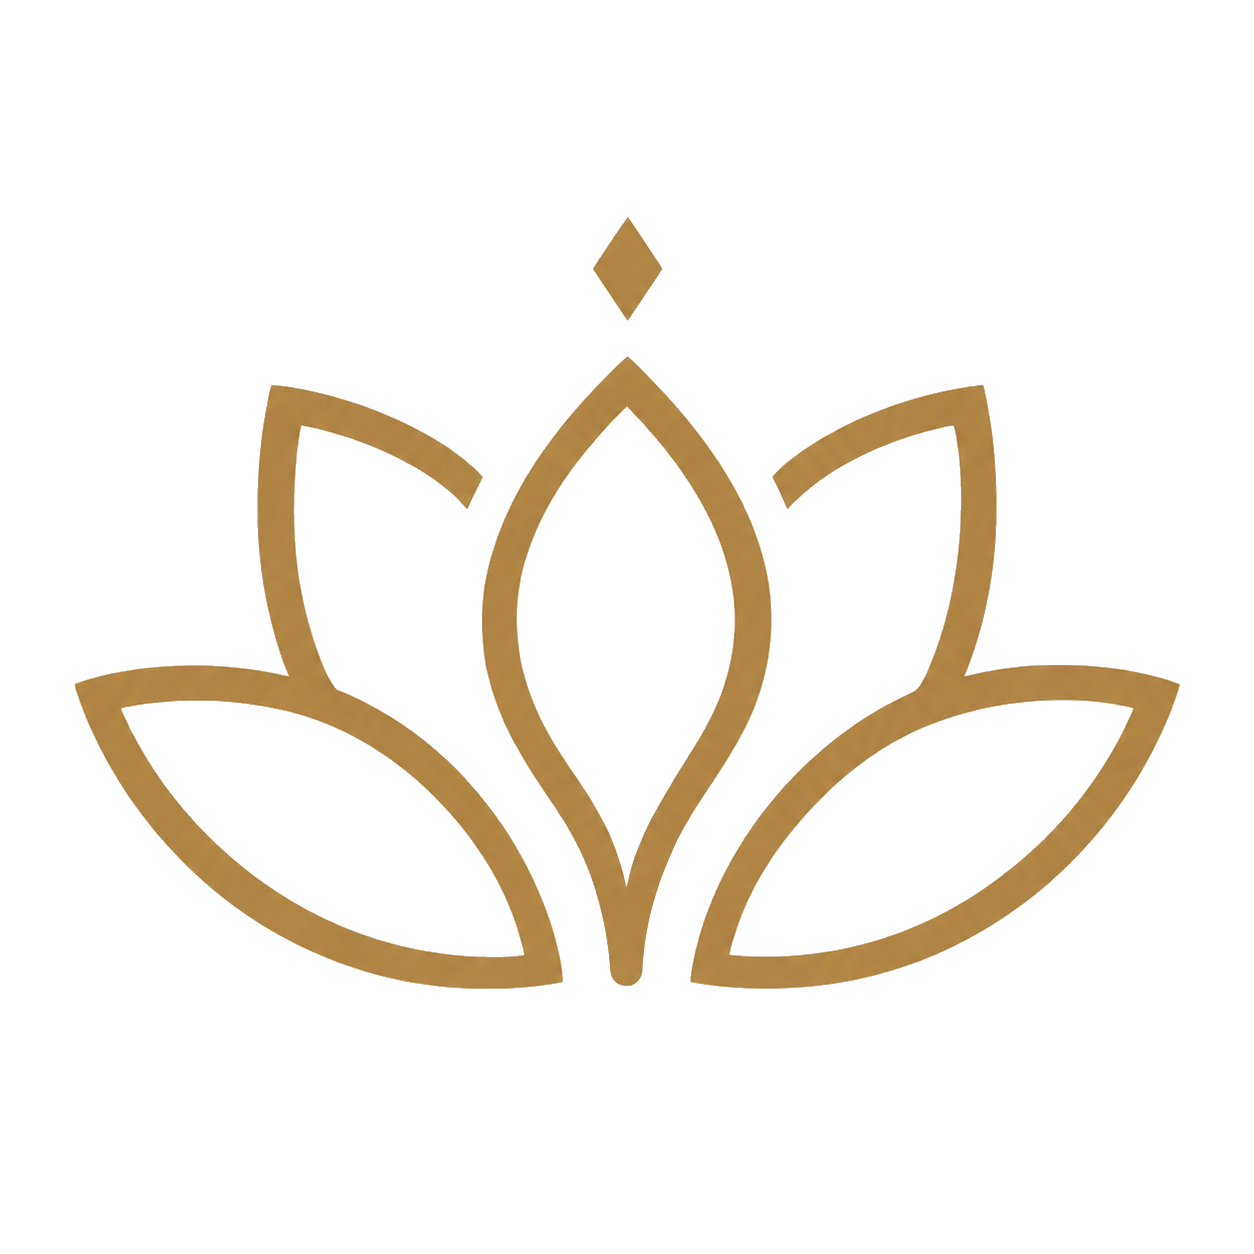
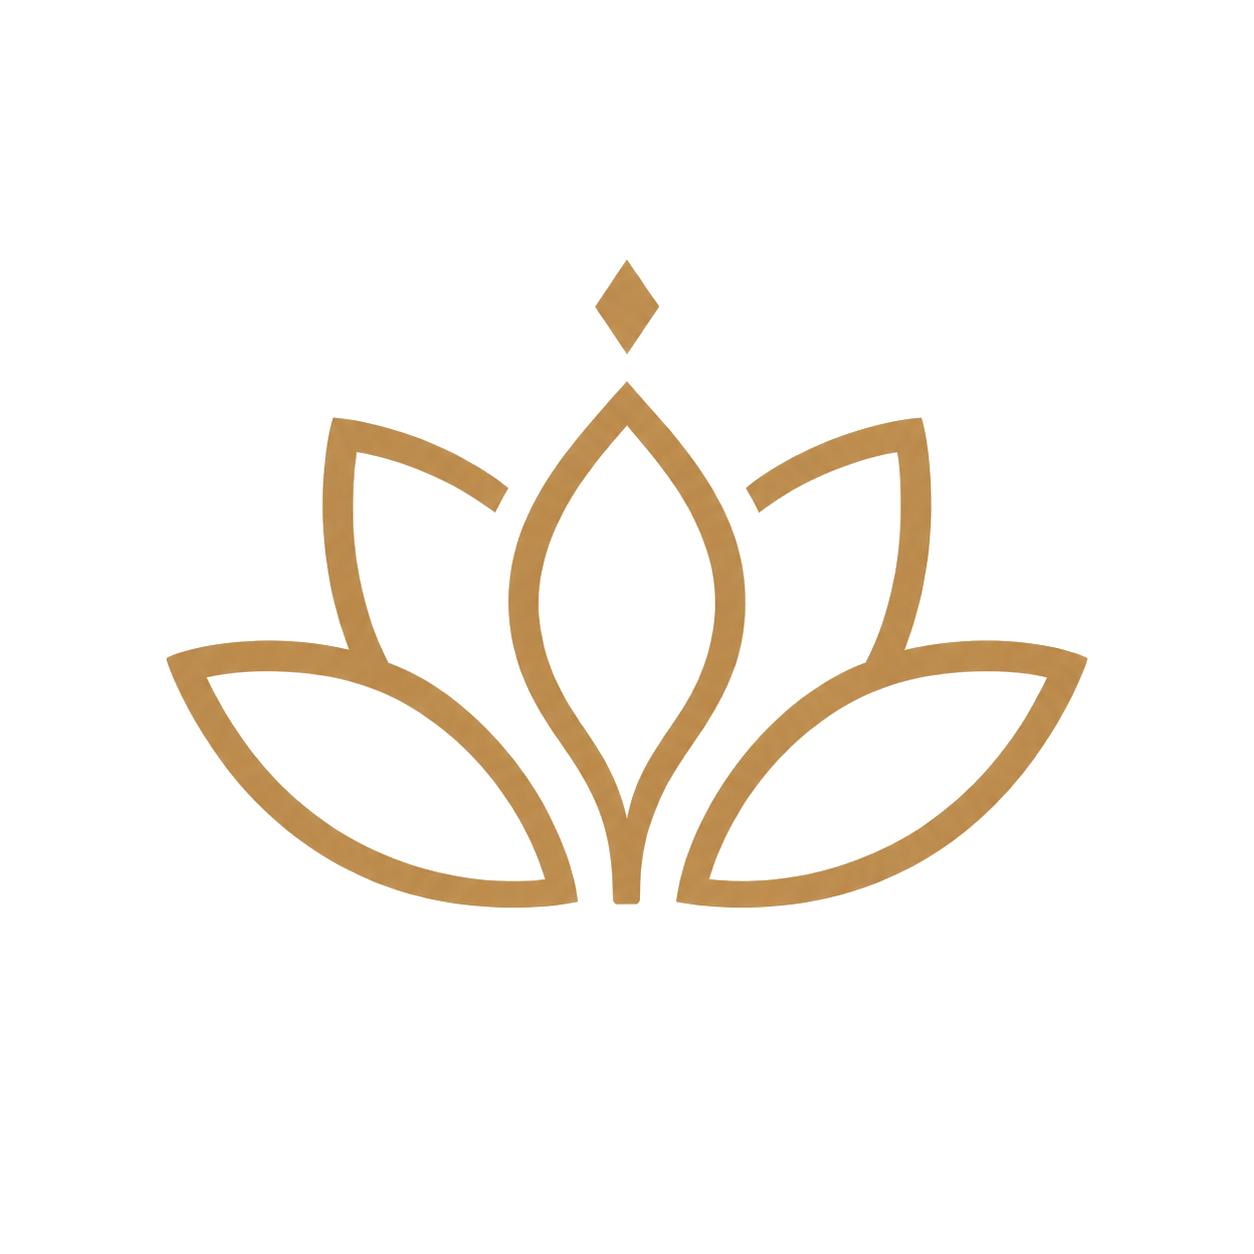
Use validated transparent brand assets

Changed region(s): [[0.0622, 0.1555, 0.9641, 0.8086]]

diff --git a/lib/brand.ts b/lib/brand.ts
@@ -12,6 +12,8 @@ export const brand = {
   horizontalLogoPath: "/brand/pramania-horizontal-lockup-transparent.png",
   logoAlt: "Pramania primary logo",
   logoPath: "/brand/pramania-primary-logo-transparent.png",
+  stackedLogoPath: "/brand/pramania-stacked-lockup-transparent.png",
+  wordmarkPath: "/brand/pramania-wordmark-only-transparent.png",
 } as const;
 
 export function getBrandInitials(name = brand.name) {